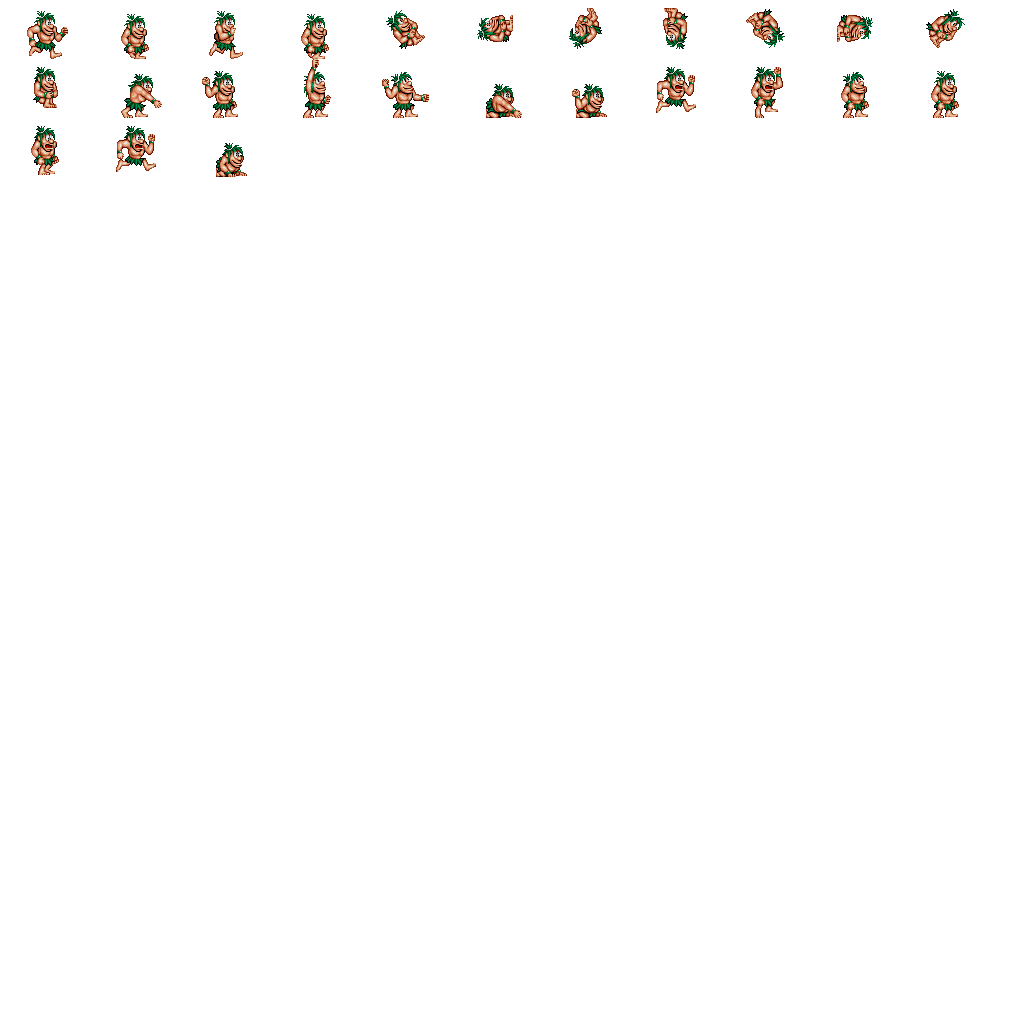
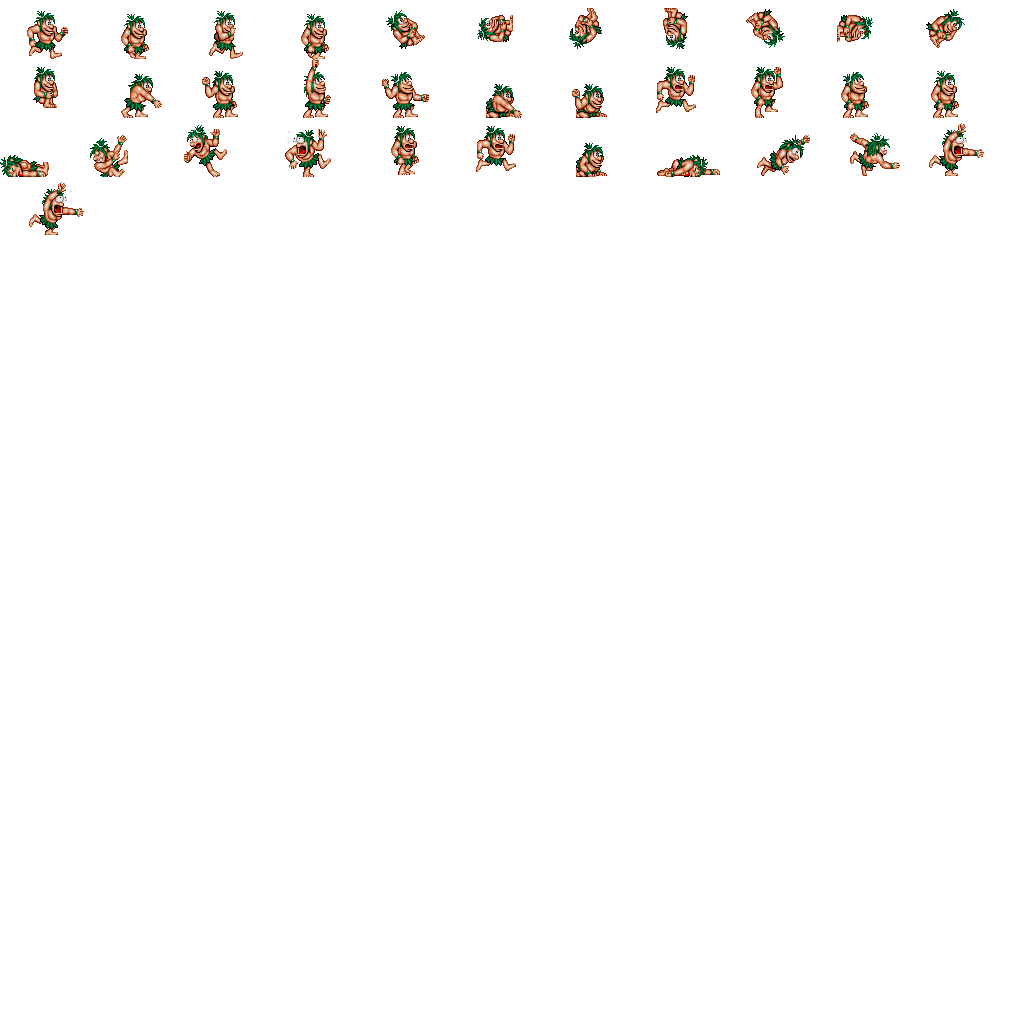
versión 0.7
attack state
player defeat state
transition between scenes
transition to the same scene (begin level again after losing life)

diff --git a/CavemanNinja/CavemanNinja/ModulePlayer.cpp b/CavemanNinja/CavemanNinja/ModulePlayer.cpp
@@ -25,6 +25,7 @@ bool ModulePlayer::Start()
 	position.x = 50;
 	position.y = 0;
 
+	energy = 18;
 
 	return true;
 }
@@ -46,7 +47,13 @@ update_status ModulePlayer::Update()
 	position.y += y_speed;
 	RefreshColliders();
 	PlaceColliders();
-	App->renderer->Blit(texture_sprite, (int)position.x, (int)position.y, &(*current_frame).section, Flip());
+	
+	Point temp_position = position;
+	temp_position.y += current_frame->offset.y;
+	if (direction == LEFT) temp_position.x -= current_frame->offset.x;
+	else temp_position.x += current_frame->offset.x;
+
+	App->renderer->Blit(texture_sprite, (int)temp_position.x, (int)temp_position.y, &(*current_frame).section, Flip());
 	
 	return UPDATE_CONTINUE;
 }
@@ -70,6 +77,10 @@ bool ModulePlayer::CleanUp()
 	shotweapon.DestroyColliders();
 	shotcrouch.DestroyColliders();
 	shotup.DestroyColliders();
+	frontattack.DestroyColliders();
+	backattack.DestroyColliders();
+	frontdying.DestroyColliders();
+	backdying.DestroyColliders();
 
 	if (state != nullptr) delete state;
 	return true;
@@ -95,6 +106,10 @@ void ModulePlayer::LoadData()
 		else if (name == "shotweapon") StoreData(info, data, shotweapon, this);
 		else if (name == "shotcrouch") StoreData(info, data, shotcrouch, this);
 		else if (name == "shotup") StoreData(info, data, shotup, this);
+		else if (name == "frontattack") StoreData(info, data, frontattack, this);
+		else if (name == "backattack") StoreData(info, data, backattack, this);
+		else if (name == "frontdying") StoreData(info, data, frontdying, this);
+		else if (name == "backdying") StoreData(info, data, backdying, this);
 	}
 }
 

diff --git a/CavemanNinja/CavemanNinja/ModuleSceneDino.cpp b/CavemanNinja/CavemanNinja/ModuleSceneDino.cpp
@@ -10,11 +10,24 @@
 #include "File.h"
 #include "ModuleCollisions.h"
 #include "Collider.h"
+#include "ModulePlayer.h"
+#include "ModuleDino.h"
+#include "ModuleParticles.h"
 
 #include "SDL.h"
 
+bool ModuleSceneDino::Init()
+{
+	return true;
+}
+
 bool ModuleSceneDino::Start()
 {
+	App->player1->Enable();
+	App->dino->Enable();
+
+	player_defeated = false;
+
 	LOG("Loading Title assets");
 
 	texture_scene_dino = App->textures->Load(IMG_SCENE_DINO);
@@ -69,9 +82,11 @@ update_status ModuleSceneDino::Update()
 	y = girl.GetCurrentFrame().offset.y;
 	App->renderer->Blit(texture_scene_dino, x, y, &(girl.GetCurrentFrame().section), SDL_FLIP_NONE);
 	
+	if (player_defeated) NextScene(this);
 	if (App->input->GetKey(SDL_SCANCODE_SPACE) == KEY_UP)
 	{
-		App->begin_level->Transition(App->scene_title, this, 1);
+		//App->begin_level->Transition(App->scene_title, this, 1);
+		NextScene(App->scene_title);
 		//App->audio->PlayFx(fx);
 	}
 
@@ -88,7 +103,13 @@ bool ModuleSceneDino::CleanUp()
 	bgvolcanos.DestroyColliders();
 	bgplatform.DestroyColliders();
 
-	App->collisions->CleanUp();
-
 	return true;
+}
+
+void ModuleSceneDino::NextScene(Module* scene)
+{
+	App->begin_level->Transition(scene, this, 1);
+	App->player1->Disable();
+	App->dino->Disable();
+	App->collisions->CleanUp();
 }

diff --git a/CavemanNinja/CavemanNinja/Application.cpp b/CavemanNinja/CavemanNinja/Application.cpp
@@ -19,12 +19,12 @@ Application::Application()
 	modules.push_back(collisions = new ModuleCollisions());
 	modules.push_back(begin_level = new ModuleBeginLevel(true));
 
-	modules.push_back(scene_title = new ModuleSceneTitle(false));
-	modules.push_back(scene_dino = new ModuleSceneDino(true));
+	modules.push_back(scene_title = new ModuleSceneTitle(true));
+	modules.push_back(scene_dino = new ModuleSceneDino(false));
 
-	modules.push_back(player1 = new ModulePlayer(true));
+	modules.push_back(player1 = new ModulePlayer(false));
 	modules.push_back(particles = new ModuleParticles(true));
-	modules.push_back(dino = new ModuleDino(true));
+	modules.push_back(dino = new ModuleDino(false));
 	modules.push_back(renderer = new ModuleRender());
 }
 
@@ -79,7 +79,7 @@ bool Application::CleanUp()
 	bool ret = true;
 
 	for (auto it = modules.rbegin(); it != modules.rend() && ret; ++it)
-		ret = (*it)->CleanUp();
+		if ((*it)->IsEnabled()) ret = (*it)->CleanUp();
 
 	return ret;
 }

diff --git a/CavemanNinja/CavemanNinja/ModuleDino.cpp b/CavemanNinja/CavemanNinja/ModuleDino.cpp
@@ -93,7 +93,7 @@ bool ModuleDino::CleanUp()
 	dinobody.DestroyColliders();
 	dinobodyground.DestroyColliders();
 
-	delete spritedinobody;
+	if (spritedinobody != nullptr) delete spritedinobody;
 	
 	if (timebetweenblinks != nullptr) delete timebetweenblinks;
 	if (state != nullptr) delete state;
@@ -132,9 +132,12 @@ void ModuleDino::OnCollision(Collider* c1, Collider* c2)
 
 void ModuleDino::CloseEye(int time)
 {
-	timer = new Timer(time);
-	timer->StartTimer();
-	eyeclosed = true;
+	if (!eyeclosed)
+	{
+		timer = new Timer(time);
+		timer->StartTimer();
+		eyeclosed = true;
+	}
 }
 
 // returns the "closedeye" frame equivalent to the current frame

diff --git a/CavemanNinja/CavemanNinja/AttackedState.h b/CavemanNinja/CavemanNinja/AttackedState.h
@@ -1,0 +1,34 @@
+#ifndef __ATTACKEDSTATE_H__
+#define __ATTACKEDSTATE_H__
+
+#include "PlayerState.h"
+
+enum attacked_substate
+{
+	MOVE_UP,
+	MOVE_DOWN,
+	ON_GROUND
+};
+
+class Timer;
+
+class AttackedState : public PlayerState
+{
+public:
+	AttackedState() {};
+	AttackedState(attack_direction attacked_from) : attacked_from(attacked_from) {}
+	~AttackedState();
+
+	PlayerState* update(ModulePlayer& player);
+	void enter(ModulePlayer& player);
+	void OnCollision(Collider* c1, Collider* c2);
+
+private:
+	Timer* timer;
+	int initial_y;
+	int move;
+	attacked_substate substate;
+	attack_direction attacked_from;
+};
+
+#endif //__ATTACKEDSTATE_H__

diff --git a/CavemanNinja/CavemanNinja/PlayerDefeatedState.cpp b/CavemanNinja/CavemanNinja/PlayerDefeatedState.cpp
@@ -1,0 +1,18 @@
+#include "PlayerDefeatedState.h"
+#include "IdleState.h" // debug
+//#include "Application.h"
+#include "ModuleBeginLevel.h"
+#include "ModuleSceneTitle.h"
+#include "ModuleSceneDino.h"
+
+PlayerState* PlayerDefeatedState::update(ModulePlayer& player)
+{
+	if (player.current_animation->Finished()) App->scene_dino->player_defeated = true; // debug return new IdleState();
+	return nullptr;
+}
+
+void PlayerDefeatedState::enter(ModulePlayer& player)
+{
+	if (attacked_from == ATTACKED_FROM_BEHIND) player.SetCurrentAnimation(&player.backdying);
+	else player.SetCurrentAnimation(&player.frontdying);
+}

diff --git a/CavemanNinja/CavemanNinja/IdleState.cpp b/CavemanNinja/CavemanNinja/IdleState.cpp
@@ -4,6 +4,7 @@
 #include "JumpState.h"
 #include "LookupState.h"
 #include "ShotweaponState.h"
+#include "AttackedState.h"
 
 #include "SDL.h"
 
@@ -12,6 +13,14 @@ IdleState::IdleState() : PlayerState()
 
 PlayerState* IdleState::update(ModulePlayer& player)
 {
+	if (App->input->GetKey(SDL_SCANCODE_P) == KEY_DOWN) // debug
+	{
+		return new AttackedState(ATTACKED_FROM_FRONT);
+	}
+	if (App->input->GetKey(SDL_SCANCODE_O) == KEY_DOWN) // debug
+	{
+		return new AttackedState(ATTACKED_FROM_BEHIND);
+	}
 	if (App->input->GetKey(SDL_SCANCODE_DOWN) == KEY_REPEAT)
 	{
 		return new CrouchState();

diff --git a/CavemanNinja/CavemanNinja/PlayerState.h b/CavemanNinja/CavemanNinja/PlayerState.h
@@ -1,5 +1,5 @@
-#ifndef __MODULEPLAYERSTATE_H__
-#define __MODULEPLAYERSTATE_H__
+#ifndef __PLAYERSTATE_H__
+#define __PLAYERSTATE_H__
 
 #include "ModulePlayer.h"
 #include "ModuleInput.h"
@@ -19,7 +19,7 @@ protected:
 
 	type_direction ScreenLimitReached(ModulePlayer& player)
 	{
-		if (player.position.x <= DINO_LEFT_LIMIT) return LEFT;
+		if (player.position.x <= LEFT_LIMIT) return LEFT;
 		if (player.position.x >= RIGHT_LIMIT) return RIGHT;
 
 		return NONE;
@@ -31,4 +31,4 @@ protected:
 	}
 };
 
-#endif //__MODULEPLAYERSTATE_H__
+#endif //__PLAYERSTATE_H__

diff --git a/CavemanNinja/CavemanNinja/PlayerDefeatedState.h b/CavemanNinja/CavemanNinja/PlayerDefeatedState.h
@@ -1,0 +1,22 @@
+#ifndef __PLAYERDEFEATEDSTATE_H__
+#define __PLAYERDEFEATEDSTATE_H__
+
+#include "PlayerState.h"
+
+class IdleState;
+
+class PlayerDefeatedState : public PlayerState
+{
+public:
+	PlayerDefeatedState() {};
+	PlayerDefeatedState::PlayerDefeatedState(attack_direction attacked_from) : attacked_from(attacked_from) {}
+
+	PlayerState* update(ModulePlayer& player);
+	void enter(ModulePlayer& player);
+	void OnCollision(Collider* c1, Collider* c2){};
+
+private:
+	attack_direction attacked_from;
+};
+
+#endif //__PLAYERDEFEATEDSTATE_H__

diff --git a/CavemanNinja/CavemanNinja/Sprite.h b/CavemanNinja/CavemanNinja/Sprite.h
@@ -3,7 +3,6 @@
 
 #include "Module.h"
 #include "SDL.h"
-#include "Animation.h" //debug
 
 class PlayerState;
 class Timer;
@@ -24,7 +23,8 @@ public:
 	type_direction direction;
 	Point position;
 	FrameInfo* previous_frame = nullptr;		// the animation frame rendered in the previous game frame
-	FrameInfo* current_frame = nullptr;		// the animation frame rendered in the current game frame
+	FrameInfo* current_frame = nullptr;			// the animation frame rendered in the current game frame
+	int energy;
 
 protected:
 	SDL_RendererFlip Flip();

diff --git a/CavemanNinja/CavemanNinja/Globals.h b/CavemanNinja/CavemanNinja/Globals.h
@@ -88,6 +88,12 @@ enum game_events
 	WALK_OFF_PLATFORM
 };
 
+enum attack_direction
+{
+	ATTACKED_FROM_FRONT,
+	ATTACKED_FROM_BEHIND
+};
+
 struct Point
 {
 	float x = 0;
@@ -137,7 +143,7 @@ void log(const char file[], int line, const char* format, ...);
 #define DATA_MATRIX "Content\\Data\\collision matrix.ini"
 #define DATA_PARTICLES "Content\\Data\\particles.ini"
 
-#define	DINO_LEFT_LIMIT -20
+#define	LEFT_LIMIT -25
 #define	RIGHT_LIMIT 200
 
 #define DEFAULT_X_SPEED 1
